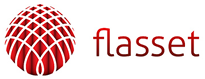
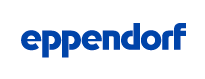
Added Eppendorf product and misc site updates.

diff --git a/www.nextgenlifelabs.com/index.html b/www.nextgenlifelabs.com/index.html
@@ -295,10 +295,19 @@
                         <ul class="soft-updates">
                             <li>
                                 <div class="date-img">
-                                    <span class="top-date">AUG</span>
-                                    <span class="bottom-date">10</span>
+                                    <span class="top-date">MAY</span>
+                                    <span class="bottom-date">30</span>
                                 </div>
-                                <p><strong>August 10th, 2015</strong><br>Visit us at <a href="https://www.asrm.org/ASRM2015/"><b>ASRM:</b></a><br>Baltimore - Oct 17th-21st<br>Booth #425</p>
+                                <p><strong>May 30th, 2016</strong><br>NextGen LifeLabs is excited to announce that we are now authorized distributors for Eppendorf. Please contract us for more information.</p>
+
+                            </li> 
+
+                            <li>
+                                <div class="date-img">
+                                    <span class="top-date">OCT</span>
+                                    <span class="bottom-date">1</span>
+                                </div>
+                                <p><strong>October 1st, 2015</strong><br>Visit us at <a href="https://www.asrm.org/ASRM2015/"><b>ASRM:</b></a><br>Baltimore - Oct 17th-21st<br>Booth #425</p>
 
                             </li>
 
@@ -310,34 +319,19 @@
                                 <p><strong>March 13th, 2015</strong><br><a href="http://www.ireachcontent.com/news-releases/medtech-for-solutions-partners-with-nextgen-lifelabs-288533531.html"><b>Press Release</b></a>. MedTech For Solutions and its Laboratory Solutions Division announced today that it has partnered with NextGen LifeLabs</p>
 
                             </li>
-                            
-                            <li>
-                                <div class="date-img">
-                                    <span class="top-date">JAN</span>
-                                    <span class="bottom-date">7</span>
-                                </div>
-                                <p><strong>January 7th, 2015</strong><br>New product lines have just been added with more information to follow</p>
-
-                            </li>                           
+                                                      
                         </ul>
                         </div>
                     </div>
                     <div class="span4 block2">
                         <div class="mini-wrapper">
-                        <h2>Direct From Our Team:</h2>
+                        <h2>Latest Press Release</h2>
                         <ul>
                             <li>
-                                <blockquote class="greyb">
-                                    <p>At NextGen LifeLabs we're very excited to offer our years of experience in assisting you with all of your ART needs.</p>
-                                    <small><strong>Steve Strzempek</strong></small>
-                                </blockquote>
+                                <strong>May 25th, 2016: </strong>
+                                <p>NextGen LifeLabs is excited to announce that we are now authorized distributors for <a href="https://www.eppendorf.com/US-en/">Eppendorf</a>. Please <a href="mailto:info@nextgenlifelabs.com?Subject=Information%20Request">contact us</a> for more information. <br><br><a href="https://www.eppendorf.com/US-en/">Eppendorf</a> is a leading life science company that develops and sells instruments, consumables and services for liquid, sample, and cell handling in laboratories worldwide. Their broad product range will expand NextGen into new and exciting areas of the market. </p>
                             </li>
-                            <li>
-                                    <blockquote class="greyb">
-                                    <p>NextGen LifeLabs is committed to providing you with the absolute best service and support available in the ART industry today.</p>
-                                    <small><strong>David Hopely</strong> </small>
-                                </blockquote>
-                            </li>
+
                         </ul>
                         </div>
                     </div>
@@ -345,6 +339,10 @@
                         <div class="mini-wrapper">
                         <h2>A Few Of Our Brands</h2>
                         <ul class="mini-clients">
+                            <li>
+                                <a href="https://www.eppendorf.com/US-en/" target="_blank"><img style="margin-left:15px" src="img/client_004.png" alt=""></a>
+                            </li>
+
                             <li>
                                 <a href="http://www.sensaphone.com/" target="_blank"><img style="margin-left:15px" src="img/client_001.png" alt=""></a>
                             </li>
@@ -358,8 +356,6 @@
                         </div>
                     </div>
                 </div>
-
-
             </div>
 
         </div>
@@ -383,8 +379,7 @@
                                         <p><i class="icon-phone icon-large"></i>Office: <a href="tel:215-672-4838">215-672-4838</a></p>      
                                         <p><i class="icon-phone icon-large"></i>Fax: <a href="tel:215-672-4904">215-672-4904</a></p>
 
-                                        <p><i class="icon-print icon-large"></i><a href="mailto:steve@nextgenlifelabs.com?Subject=Information%20Request">steve@nextgenlifelabs.com</a></p>                   
-                                        <p><i class="icon-print icon-large"></i><a href="mailto:david@nextgenlifelabs.com?Subject=Information%20Request">david@nextgenlifelabs.com</a></p>
+                                        <p><i class="icon-print icon-large"></i><a href="mailto:info@nextgenlifelabs.com?Subject=Information%20Request">info@nextgenlifelabs.com</a></p>                   
                                     </address>
                                 </div>
                                 <!-- FOOTER: ABOUT US -->
@@ -428,7 +423,7 @@
                     <div class="row show-grid">
                         <!-- FOOTER: COPYRIGHT TEXT -->
                         <div class="span12">
-                            <p>All content Copyright 2015 NextGen LifeLabs | Site by <a href="http://www.adamfreemer.net">AFDesigns</a></p>
+                            <p>All content Copyright 2016 NextGen LifeLabs</p>
                         </div>
                     </div>
                 </div>
